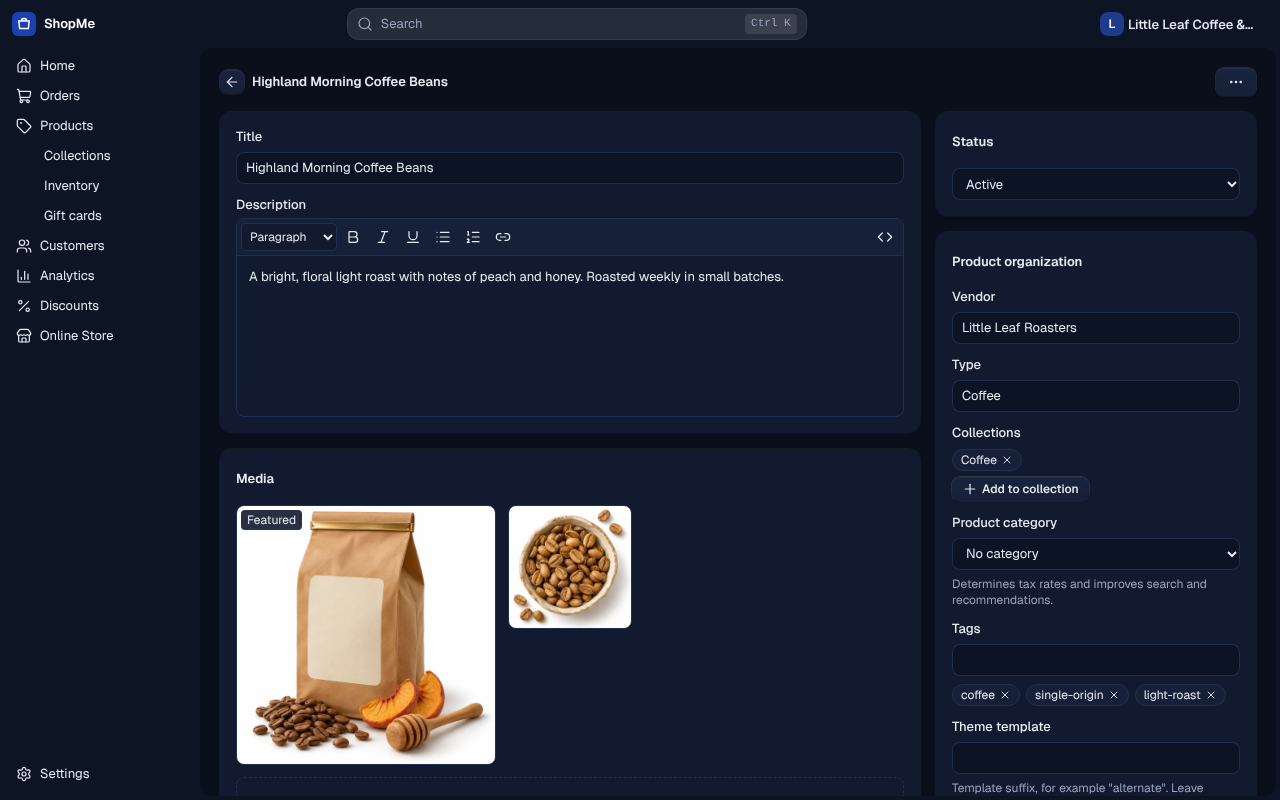
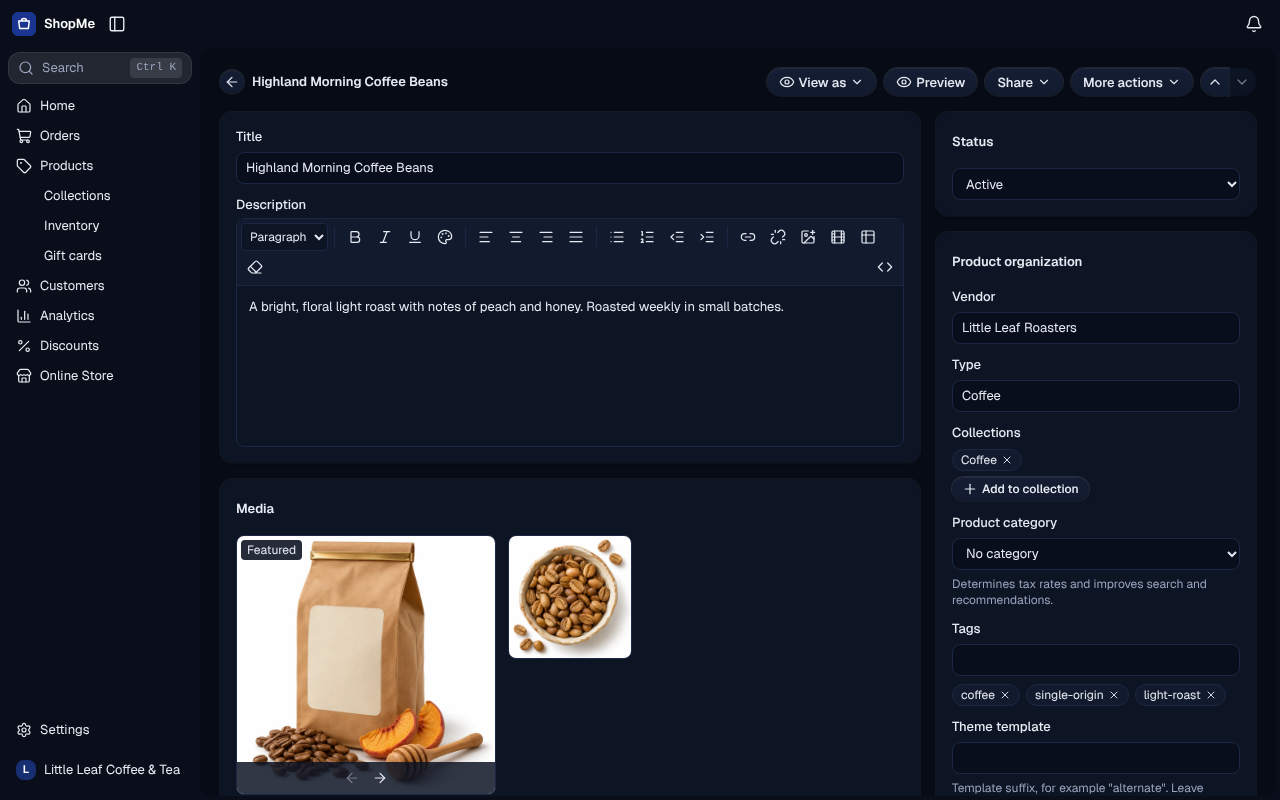
Admin: darker navy palette

diff --git a/packages/ui/src/tokens.css b/packages/ui/src/tokens.css
@@ -3,33 +3,33 @@
    of a modern commerce admin and re-expressed under our own names. Colours are our own palette. */
 :root {
   /* Surfaces */
-  --color-page: #0a0f1c;          /* page sheet behind cards */
-  --color-bg: #111a2e;            /* cards, popovers */
-  --color-surface: #162038;       /* hover / inset / raised */
-  --color-field: #0b1325;         /* text inputs */
-  --color-border: #22304f;
+  --color-page: #070b15;          /* page sheet behind cards */
+  --color-bg: #0d1424;            /* cards, popovers */
+  --color-surface: #121a2e;       /* hover / inset / raised */
+  --color-field: #080e1b;         /* text inputs */
+  --color-border: #1c2843;
   --color-text: #e6eaf2;
   --color-text-muted: #9aa5bd;
 
   /* App chrome (sidebar + top bar) */
-  --color-frame: #0d1424;
+  --color-frame: #090e1a;
   --color-frame-text: #e6eaf2;
   --color-frame-muted: #9aa5bd;
   --color-frame-hover: rgb(255 255 255 / 0.06);
   --color-frame-active: rgb(124 156 255 / 0.16);
-  --color-raised: #18233d;
+  --color-raised: #141d33;
   --color-hover: rgb(255 255 255 / 0.06);
   --color-pressed: rgb(255 255 255 / 0.1);
-  --color-ink: #1b2a4e;           /* toast pill */
+  --color-ink: #172342;           /* toast pill */
   --color-ink-text: #f2f5fb;
   --color-bar: #04070d;           /* contextual save bar */
 
   /* Brand: dark navy fills, lighter accent for text/links/focus */
-  --color-primary: #1e3a8a;
-  --color-primary-hover: #24449f;
-  --color-primary-pressed: #1a3277;
-  --color-primary-top: #2c4fb0;
-  --color-primary-subtle: #16244a;
+  --color-primary: #172f72;
+  --color-primary-hover: #1d3888;
+  --color-primary-pressed: #13285f;
+  --color-primary-top: #243f94;
+  --color-primary-subtle: #121d3d;
   --color-primary-contrast: #ffffff;
   --color-accent: #7c9cff;
   --color-focus-ring: rgb(124 156 255 / 0.75);
@@ -80,18 +80,18 @@
   --color-hover: rgb(17 24 39 / 0.05);
   --color-pressed: rgb(17 24 39 / 0.09);
   --color-ink: #1b1d22;
-  --color-primary: #1e40af;
-  --color-primary-hover: #1e3a8a;
-  --color-primary-pressed: #1a3277;
-  --color-primary-top: #3557c8;
+  --color-primary: #1a3591;
+  --color-primary-hover: #172f72;
+  --color-primary-pressed: #13285f;
+  --color-primary-top: #2a48a8;
   --color-primary-subtle: #e3eafc;
-  --color-accent: #1e40af;
+  --color-accent: #1a3591;
   --color-focus-ring: rgb(30 64 175 / 0.6);
   --color-success: #0b6b3a;   --color-success-subtle: #cdf4d3;
   --color-attention: #5e4200; --color-attention-subtle: #ffe9a3;
   --color-warning: #7a4b00;   --color-warning-subtle: #ffd6a4;
   --color-critical: #b42318;  --color-critical-subtle: #fedad9; --color-critical-fill: #b42318;
-  --color-info: #1e40af;      --color-info-subtle: #dbe6ff;
+  --color-info: #1a3591;      --color-info-subtle: #dbe6ff;
   --shadow-card: 0 1px 2px rgb(16 24 40 / 0.07), 0 0 0 1px rgb(16 24 40 / 0.05);
   --shadow-btn: 0 1px 1.5px rgb(16 24 40 / 0.14), 0 0 0 1px rgb(16 24 40 / 0.12), inset 0 1px 0 rgb(255 255 255 / 0.8);
   --shadow-pop: 0 10px 28px rgb(16 24 40 / 0.18), 0 0 0 1px rgb(16 24 40 / 0.07);
@@ -111,18 +111,18 @@
     --color-hover: rgb(17 24 39 / 0.05);
     --color-pressed: rgb(17 24 39 / 0.09);
     --color-ink: #1b1d22;
-    --color-primary: #1e40af;
-    --color-primary-hover: #1e3a8a;
-    --color-primary-pressed: #1a3277;
-    --color-primary-top: #3557c8;
+    --color-primary: #1a3591;
+    --color-primary-hover: #172f72;
+    --color-primary-pressed: #13285f;
+    --color-primary-top: #2a48a8;
     --color-primary-subtle: #e3eafc;
-    --color-accent: #1e40af;
+    --color-accent: #1a3591;
     --color-focus-ring: rgb(30 64 175 / 0.6);
     --color-success: #0b6b3a;   --color-success-subtle: #cdf4d3;
     --color-attention: #5e4200; --color-attention-subtle: #ffe9a3;
     --color-warning: #7a4b00;   --color-warning-subtle: #ffd6a4;
     --color-critical: #b42318;  --color-critical-subtle: #fedad9; --color-critical-fill: #b42318;
-    --color-info: #1e40af;      --color-info-subtle: #dbe6ff;
+    --color-info: #1a3591;      --color-info-subtle: #dbe6ff;
     --shadow-card: 0 1px 2px rgb(16 24 40 / 0.07), 0 0 0 1px rgb(16 24 40 / 0.05);
     --shadow-btn: 0 1px 1.5px rgb(16 24 40 / 0.14), 0 0 0 1px rgb(16 24 40 / 0.12), inset 0 1px 0 rgb(255 255 255 / 0.8);
     --shadow-pop: 0 10px 28px rgb(16 24 40 / 0.18), 0 0 0 1px rgb(16 24 40 / 0.07);

diff --git a/apps/admin/src/components/Shell.tsx b/apps/admin/src/components/Shell.tsx
@@ -38,7 +38,7 @@ export const NAV: NavItem[] = [
 export function Logo({ className }: { className?: string }) {
   return (
     <svg viewBox="0 0 32 32" className={className} aria-hidden>
-      <rect width="32" height="32" rx="8" fill="#1E40AF" />
+      <rect width="32" height="32" rx="8" fill="#1A3591" />
       <path d="M9 12h14l-1.2 10H10.2z" fill="none" stroke="#fff" strokeWidth="2" strokeLinejoin="round" />
       <path d="M12.5 12a3.5 3.5 0 0 1 7 0" fill="none" stroke="#fff" strokeWidth="2" />
     </svg>

diff --git a/CHANGELOG.md b/CHANGELOG.md
@@ -9,6 +9,7 @@ The format is based on [Keep a Changelog](https://keepachangelog.com/en/1.1.0/),
 
 ### Added
 
+- Admin: darker navy palette (surfaces, sidebar and primary buttons).
 - Rich-text editor toolbar: block format (paragraph, headings, quote), bold, italic, underline, text color, alignment, lists, indent, link, image (from Files or upload), YouTube/Vimeo embed, table, clear formatting and a Show HTML toggle, used for products, collections, pages and articles.
 - Rich text is sanitized on the server for products, collections, pages and articles: tables, alignment, safe inline styles and YouTube/Vimeo iframes are kept; scripts, event handlers, other iframes and unsafe URLs are removed.
 - Pages and blog posts: theme template select (alternate templates of the live theme), scheduled publishing with a visibility date and time, and SEO title and description with an editable search engine listing preview (`seo` field on `Page` and `Article`).
